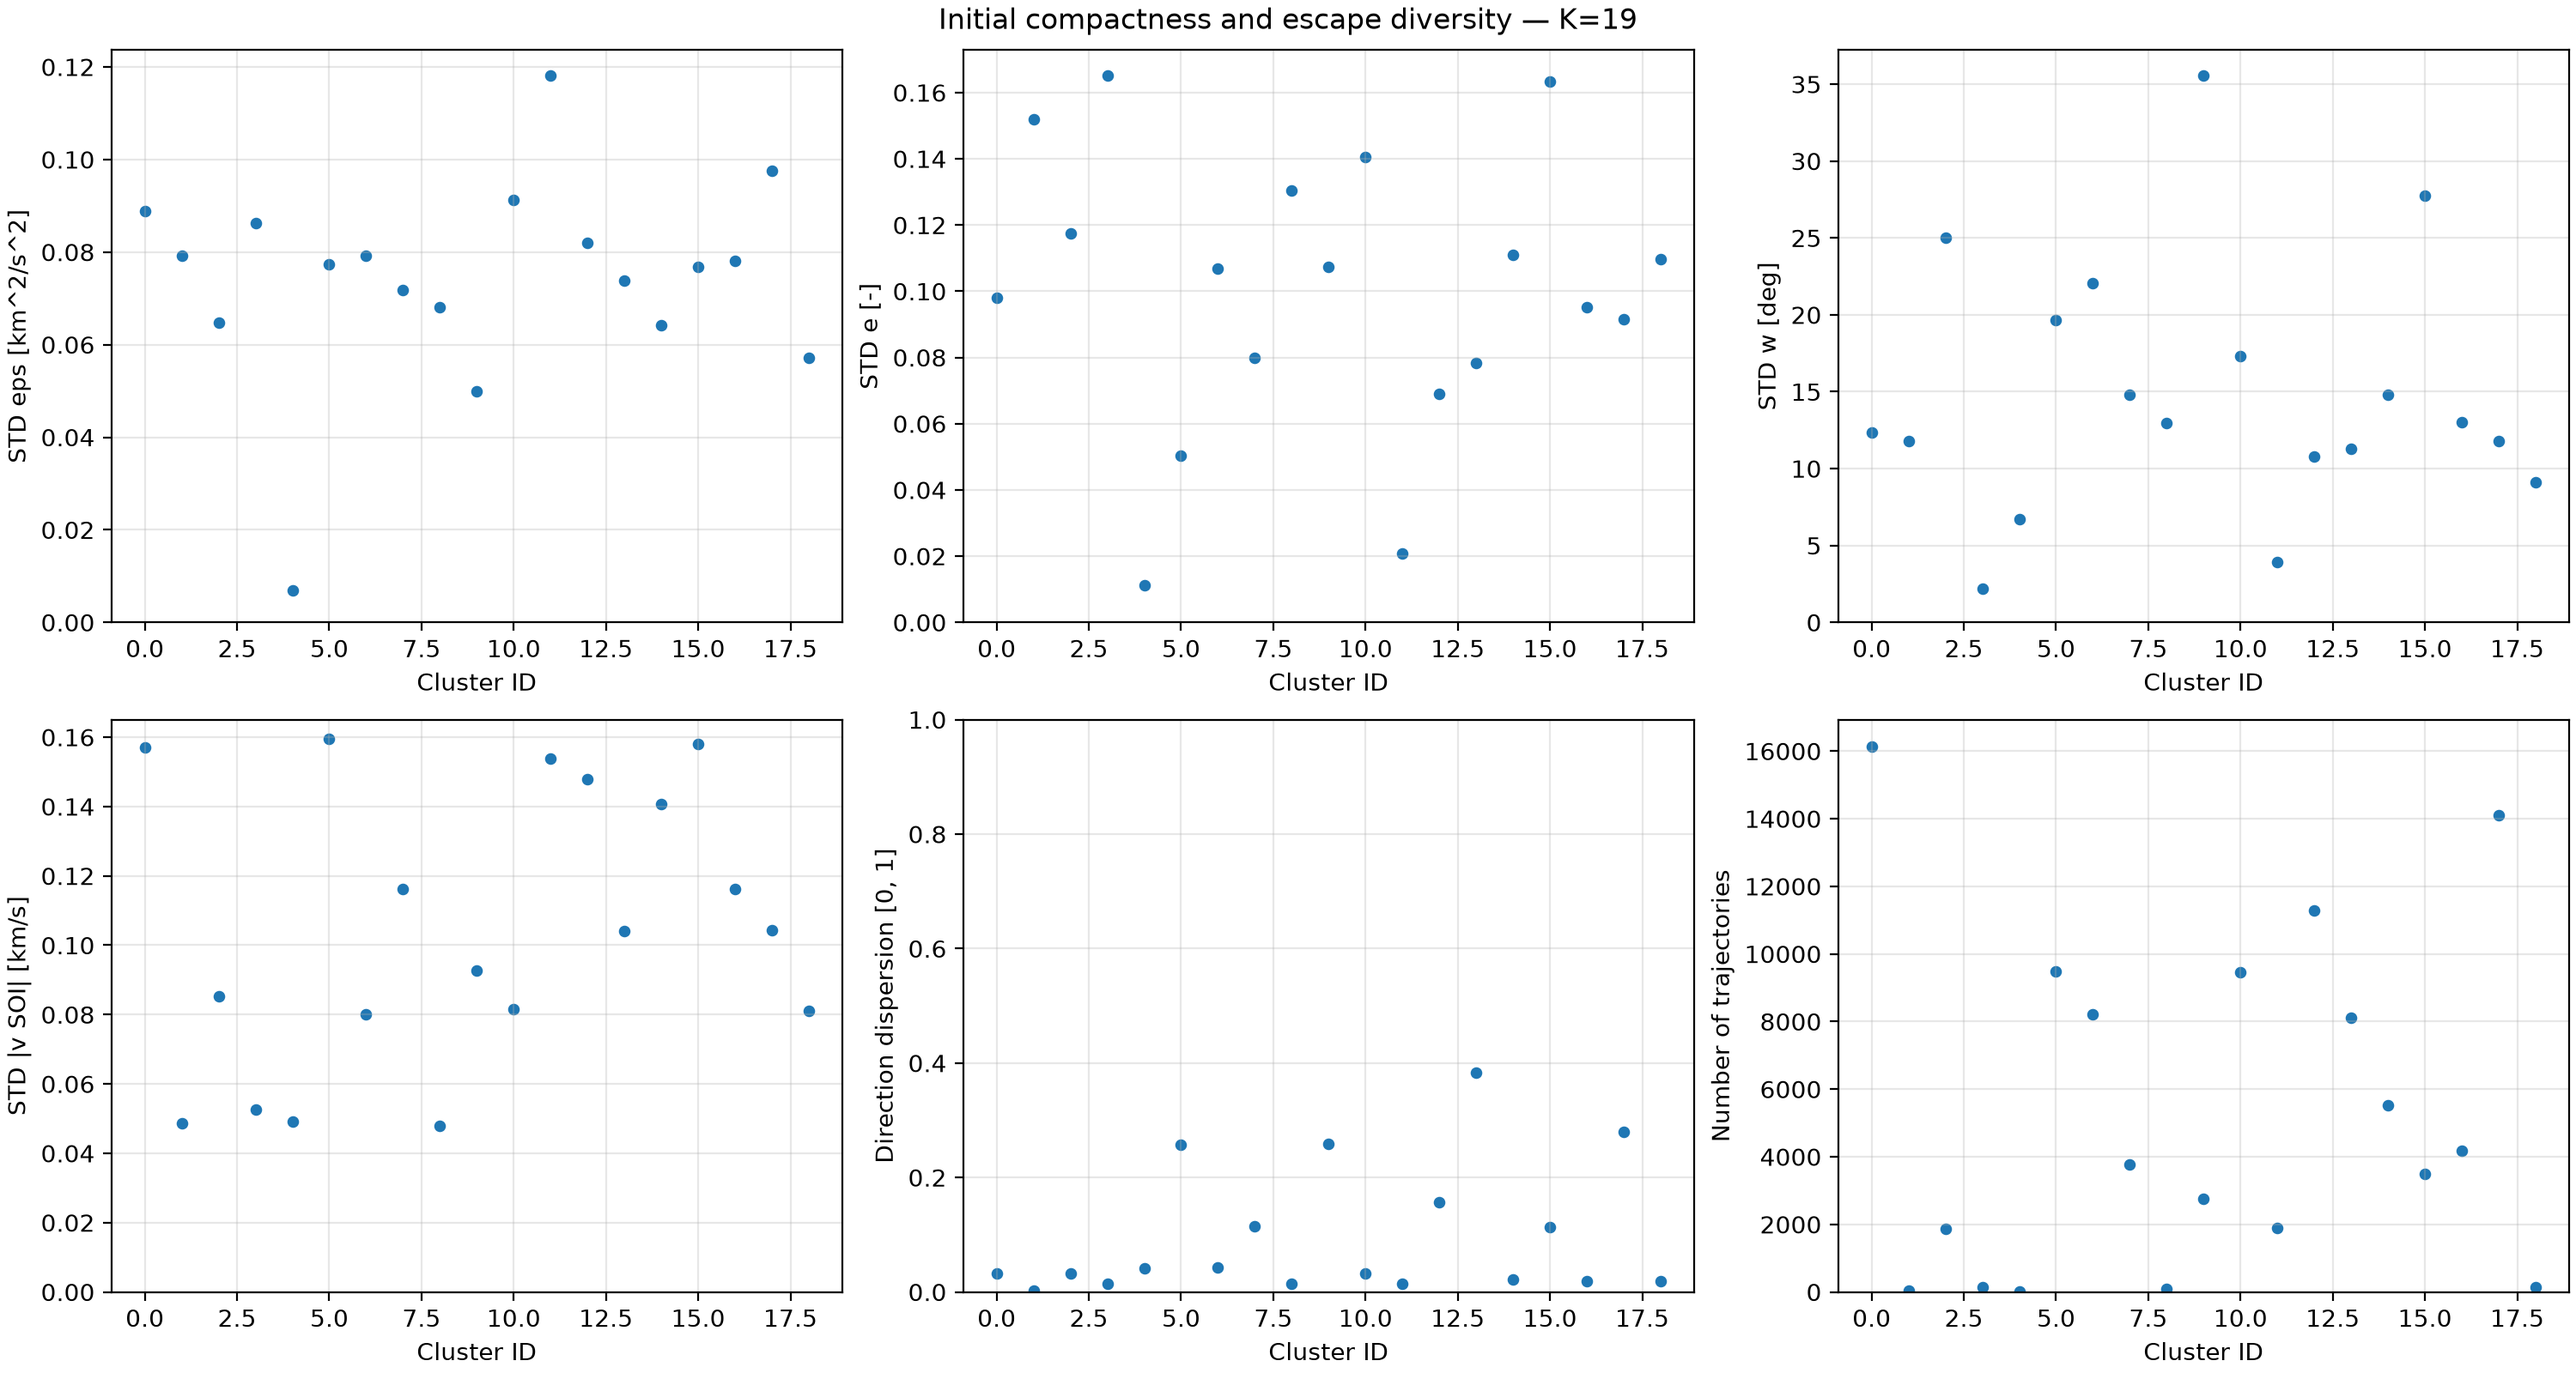
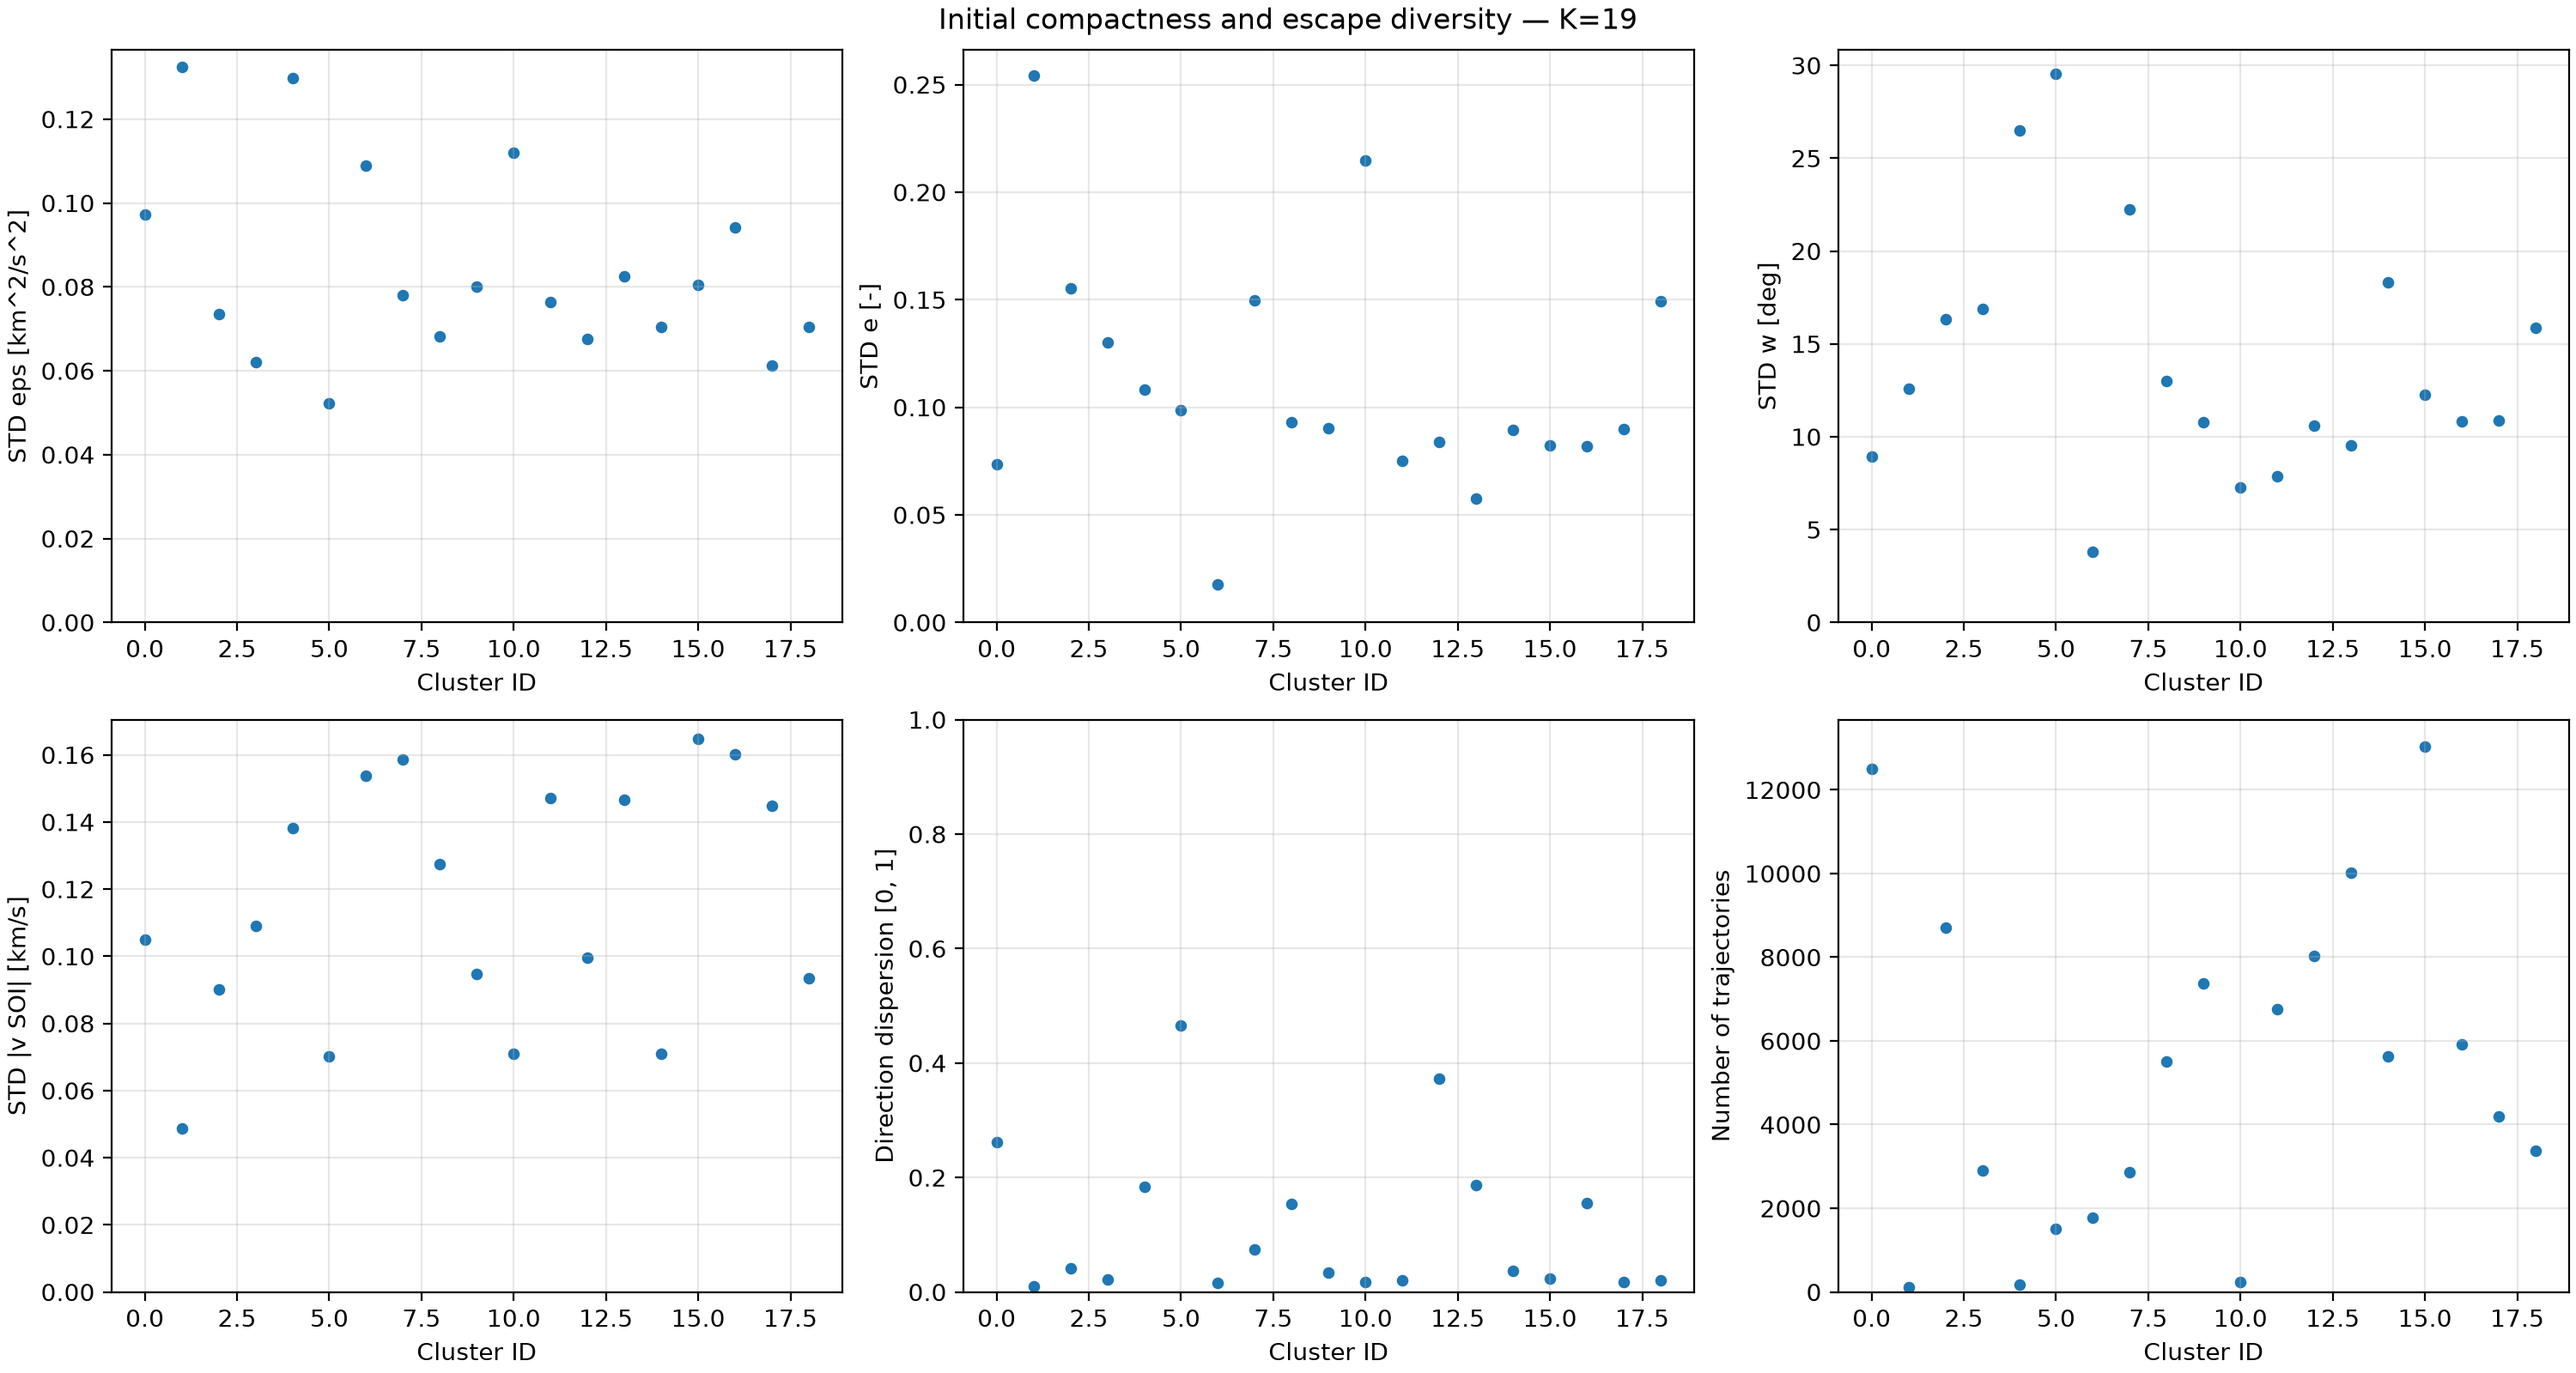
GA_K19

diff --git a/CR3BP/Lunar Swingby/Clustering/CR3BP_prova_GA_14.py b/CR3BP/Lunar Swingby/Clustering/CR3BP_prova_GA_14.py
@@ -326,7 +326,7 @@ clustering_features = np.column_stack((
     normalize_block(event_features[:, 0:1]),   # eps
     normalize_block(event_features[:, 1:2]),   # e
     normalize_block(angular_features),         # w
-    100 *normalize_block(event_features[:, 6:7]),                      # verso al perigeo
+    normalize_block(event_features[:, 6:7]),                      # verso al perigeo
  #  normalize_block(event_features[:, 3:6]),   # v_SOI
 ))
 
